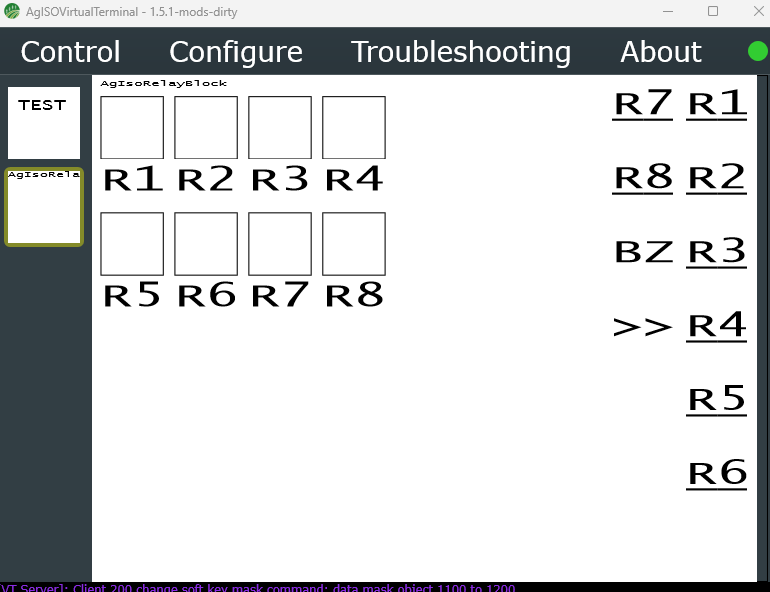
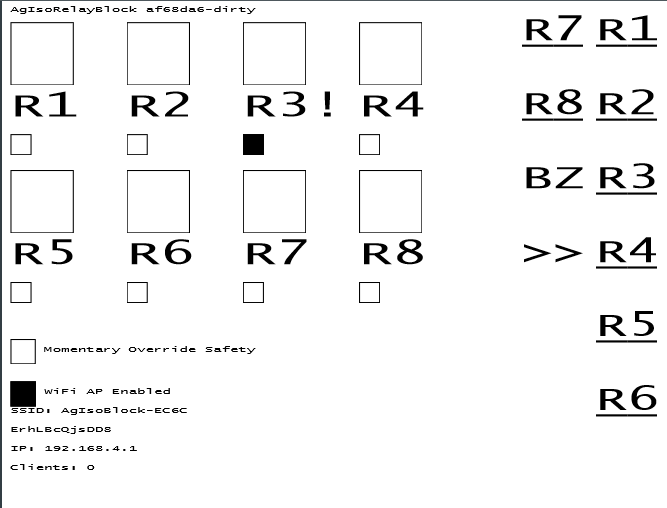
Update main screen screenshot, document flashing a brand-new board
images/main screen.png replaced with a current bench capture showing the
full Data Mask now: the 2x4 relay/DI grid with R3 disabled ("R3!", DI box
filled), the Momentary Override Safety checkbox, and the WiFi status
panel (SSID/password/IP/clients) -- updated the alt text everywhere it's
referenced to match.

Added a "Flashing a brand-new/blank board" section to firmware/README.md:
idf.py -p <PORT> flash already writes everything a blank chip needs in
one pass (bootloader, this project's custom partition table, the
auto-generated ota_data_initial.bin, and the app image) -- confirmed on
the bench, since that's the exact command used for every flash this
project did. Documents why that differs from idf.py app-flash, that NVS
doesn't need pre-erasing (net::wifi_ap::init() already handles a blank
partition), and practical notes (port enumeration, no BOOT button
sequence needed on this board, what a "port busy" error usually means).

diff --git a/firmware/README.md b/firmware/README.md
@@ -148,7 +148,7 @@ Bench-verified on real hardware (board on COM12):
 
   Visual confirmation from the bench: the Data Mask's 2x4 indicator grid
   and both SKM pages render correctly --
-  ![main screen: 2x4 relay indicator grid and SKM page 1 (R1-R8 underlined, BZ, >>)](../images/main%20screen.png)
+  ![main screen: 2x4 relay indicator grid and SKM page 1 (R1-R8 underlined, BZ, >>) -- image later replaced with an updated bench capture also showing the Phase 6/7 Momentary Override Safety checkbox and WiFi status panel below the grid](../images/main%20screen.png)
   -- and all 17 AUX-N functions are recognized by the VT, with the
   underline convention correctly distinguishing the toggle variant from
   the plain momentary one --
@@ -473,6 +473,51 @@ idf.py set-target esp32s3
 idf.py build
 idf.py -p <PORT> flash monitor
 ```
+
+### Flashing a brand-new/blank board
+
+No extra steps needed beyond the `idf.py -p <PORT> flash` above -- it
+already writes everything a completely blank chip needs in one pass
+(confirmed on the bench: same command used for every reflash this
+project did, including the very first one onto unprogrammed flash):
+
+- The bootloader and this project's custom partition table
+  ([partitions.csv](partitions.csv) -- required from the first flash
+  onward, since a blank chip has no partition table at all yet).
+- `ota_data_initial.bin`, which `idf.py flash` generates and writes
+  automatically -- without it, a blank chip's `otadata` partition doesn't
+  point at either OTA slot yet and won't know which one to boot.
+- The application image itself, into `ota_0`.
+
+(This is different from `idf.py app-flash`, which writes *only* the app
+image and assumes a valid bootloader/partition table/`otadata` are
+already present from an earlier full flash -- faster for iterating on a
+board that's already been flashed once, but won't work on a blank one.)
+
+NVS (where the WiFi AP password lives) doesn't need pre-erasing either:
+`net::wifi_ap::init()` already detects and recovers from a blank/
+uninitialized NVS partition on its own (`nvs_flash_init()`'s
+`ESP_ERR_NVS_NO_FREE_PAGES`/`ESP_ERR_NVS_NEW_VERSION_FOUND` handling in
+[net/wifi_ap.cpp](main/net/wifi_ap.cpp)), generating and persisting a
+fresh random password on that first boot exactly like any other first
+boot.
+
+Practical notes specific to this board:
+
+- It enumerates as a USB-serial port as soon as it's plugged in (no
+  driver install needed on a recent Windows/Linux/macOS -- it uses a
+  standard USB-serial chip); find `<PORT>` via Device Manager on Windows
+  or `ls /dev/tty.*` / `ls /dev/ttyUSB*` on macOS/Linux.
+- No BOOT/RESET button sequence needed to enter flashing mode -- every
+  flash this project did (Windows, this exact board) went straight
+  through via the onboard USB-serial chip's automatic reset (logged by
+  `esptool` as `"Hard resetting via RTS pin..."`). If that's ever not the
+  case for a given unit/OS combination, esptool's standard manual
+  BOOT-then-RESET button sequence is the fallback -- not needed here so
+  far.
+- If `<PORT>` is reported busy/access-denied, check for an open serial
+  monitor (Arduino IDE, VS Code's built-in one, `idf.py monitor` from
+  another terminal, etc.) holding it and close that first.
 
 Expected serial output: an LED color-check sequence (RED/GREEN/BLUE, ~800ms
 each -- sanity check for the LED's actual wire color order), an I2C bus scan

diff --git a/README.md b/README.md
@@ -15,7 +15,7 @@ An open-source, DIY-friendly alternative to commercial ISOBUS relay boxes
 > diagnostics for the fault conditions it can actually detect -- see
 > [Project Status](#project-status) below.
 
-![Object pool rendered on a real Virtual Terminal: 8 relay indicators in a 2x4 grid, and the 10-key Soft Key Mask (R1-R8 toggle, BZ buzzer, >> next page)](images/main%20screen.png)
+![Object pool rendered on a real Virtual Terminal: 8 relay indicators in a 2x4 grid with DI interlock boxes (R3 shown disabled as "R3!" with its DI box filled), the Momentary Override Safety checkbox, the WiFi status panel (SSID/password/IP/connected clients), and the 10-key Soft Key Mask (R1-R8 toggle, BZ buzzer, >> next page)](images/main%20screen.png)
 
 ## Why
 
